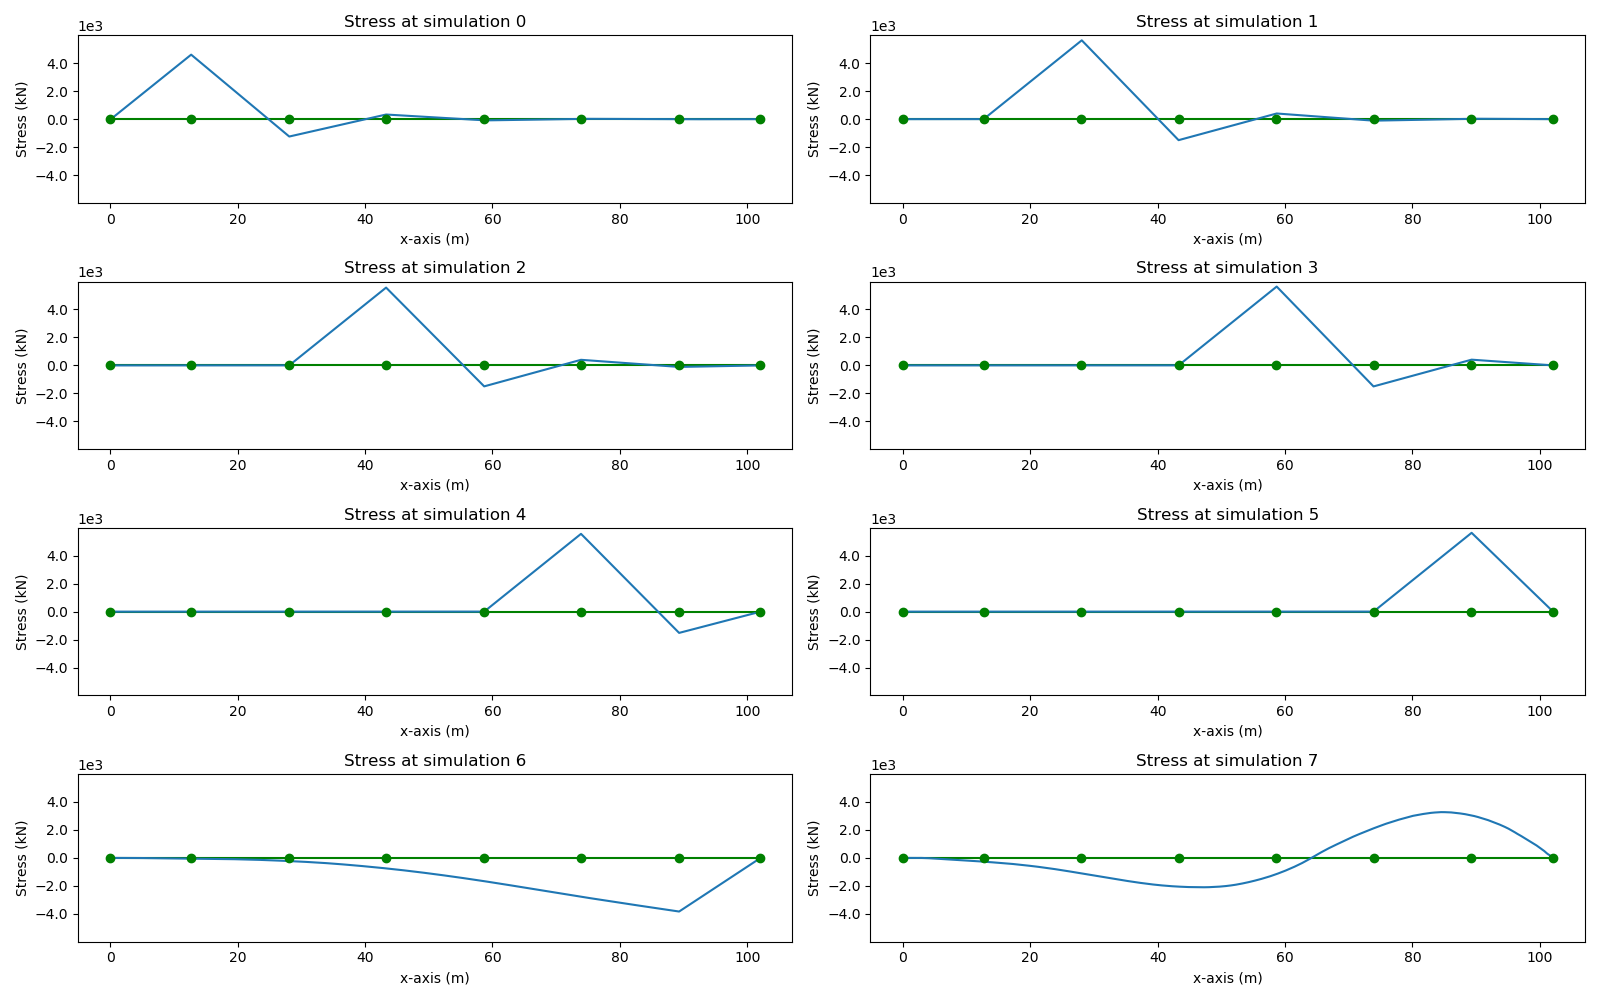
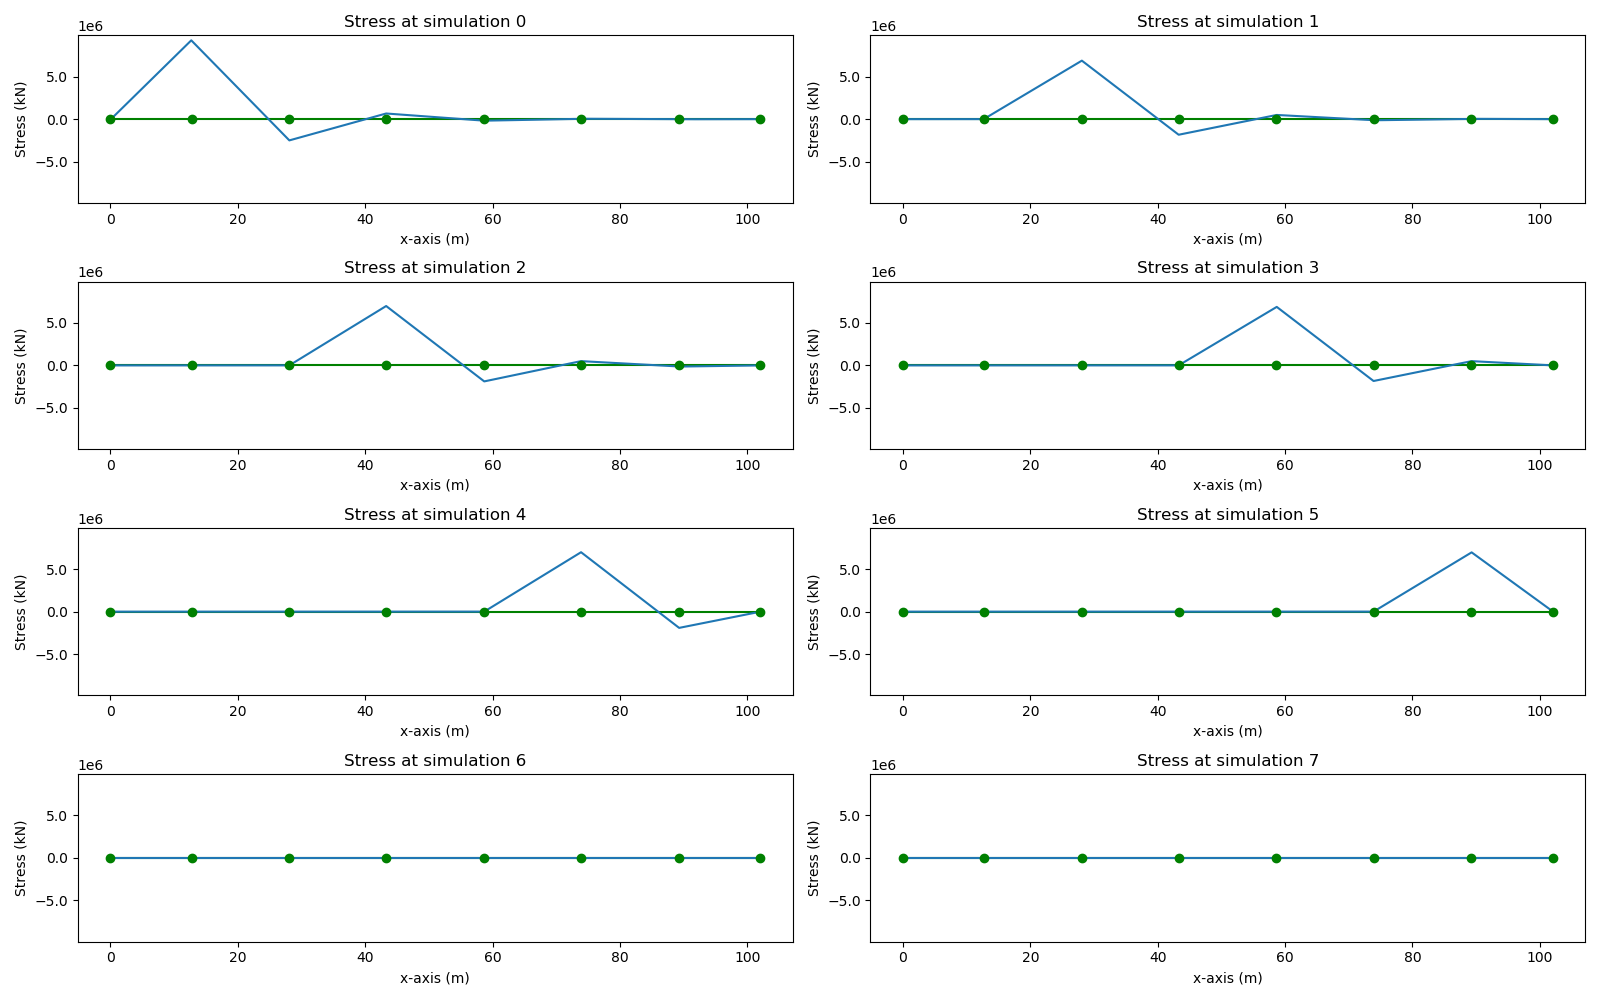
Displacement control fixes

diff --git a/code/fem/run/opensees/build.py b/code/fem/run/opensees/build.py
@@ -37,7 +37,7 @@ def opensees_loads(c: Config, fem_params: FEMParams):
     """OpenSees load commands for a .tcl file."""
     def opensees_load(l: Load):
         nid = int(np.interp(l.x_frac, (0, 1), (1, c.os_num_nodes())))
-        return f"load {nid} 0 {l.kn} 0"
+        return f"load {nid} 0 {l.kn * 1000} 0"
     if fem_params.displacement_ctrl is not None:
         fix = c.bridge.fixed_nodes[fem_params.displacement_ctrl.pier]
         return opensees_load(Load(x_frac=fix.x_frac, kn=10))
@@ -127,6 +127,22 @@ def opensees_integrator(c: Config, displacement_ctrl: DisplacementCtrl):
             + f" {displacement_ctrl.displacement}")
 
 
+def opensees_materials(c: Config, displacement_ctrl: DisplacementCtrl):
+    """OpenSees material commands."""
+    if displacement_ctrl is None:
+        # In standard case return:
+        # - Concrete: nonlinear with linear tension softening.
+        # - Steel: uniaxial bilinear with strain hardening.
+        return """
+uniaxialMaterial Concrete02 1 -2.8800000e+07 -1.6044568e-03 -2.8800000e+07 -3.5000000e-03 2.0000000e-01 2.8800000e+06 3.5900000e+10
+uniaxialMaterial Steel01    2 3.4800000e+08  2.0000000e+11  0.0000000e+00
+"""
+    # In displacement control case use linear elastic.
+    return """
+uniaxialMaterial Elastic 1 3.59e+10
+uniaxialMaterial Elastic 2 2.0000000e+11
+"""
+
 def build_model(c: Config, expt_params: ExptParams, fem_runner: FEMRunner):
     """Build OpenSees model files."""
     for fem_params in expt_params.fem_params:
@@ -151,6 +167,8 @@ def build_model(c: Config, expt_params: ExptParams, fem_runner: FEMRunner):
         out_tcl = (in_tcl
             .replace("<<NODES>>", opensees_nodes(c))
             .replace("<<FIX>>", opensees_fixed_nodes(c))
+            .replace("<<MATERIALS>>", opensees_materials(
+                c, fem_params.displacement_ctrl))
             .replace("<<ELEMENTS>>", opensees_elements(c))
             .replace("<<LOAD>>", opensees_loads(c, fem_params))
             .replace("<<SECTIONS>>", opensees_sections(c))

diff --git a/code/scripts/make_plots.py b/code/scripts/make_plots.py
@@ -62,7 +62,7 @@ def make_dc_plots(c: Config):
 
 if __name__ == "__main__":
     c = bridge_705_config()
-    # clean_generated(c)
+    clean_generated(c)
     # make_bridge_plots(c)
     # make_il_plots(c)
     make_dc_plots(c)
